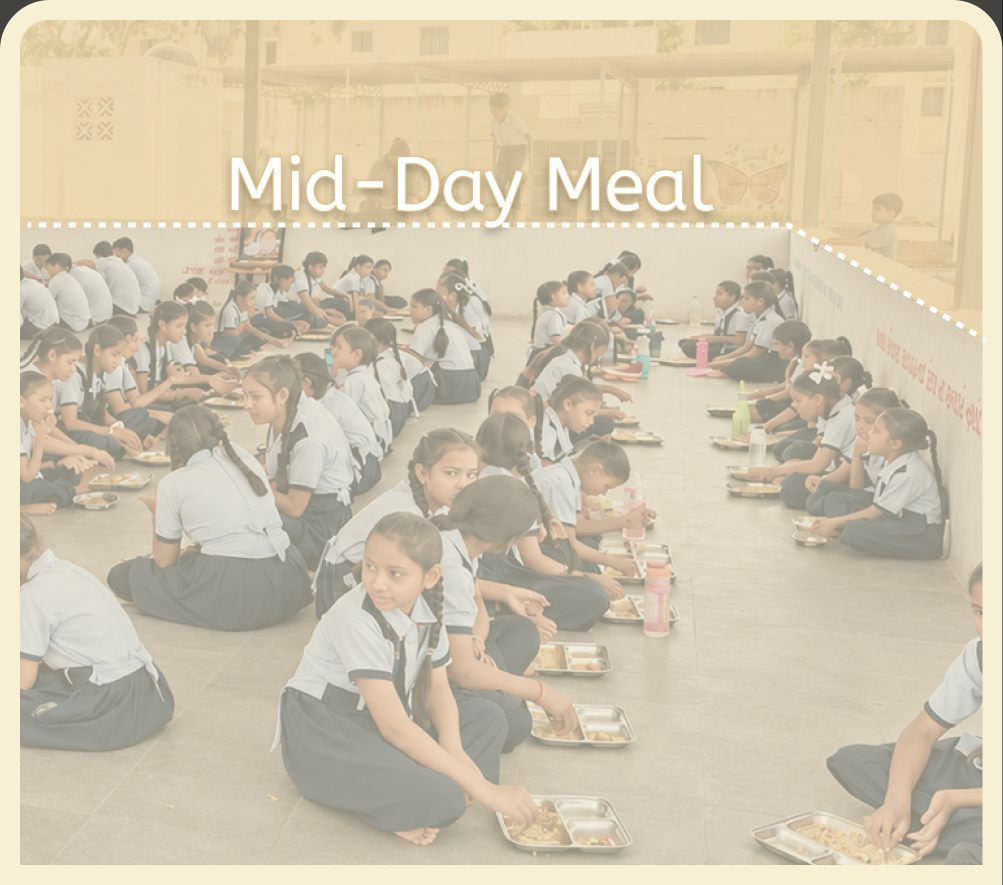
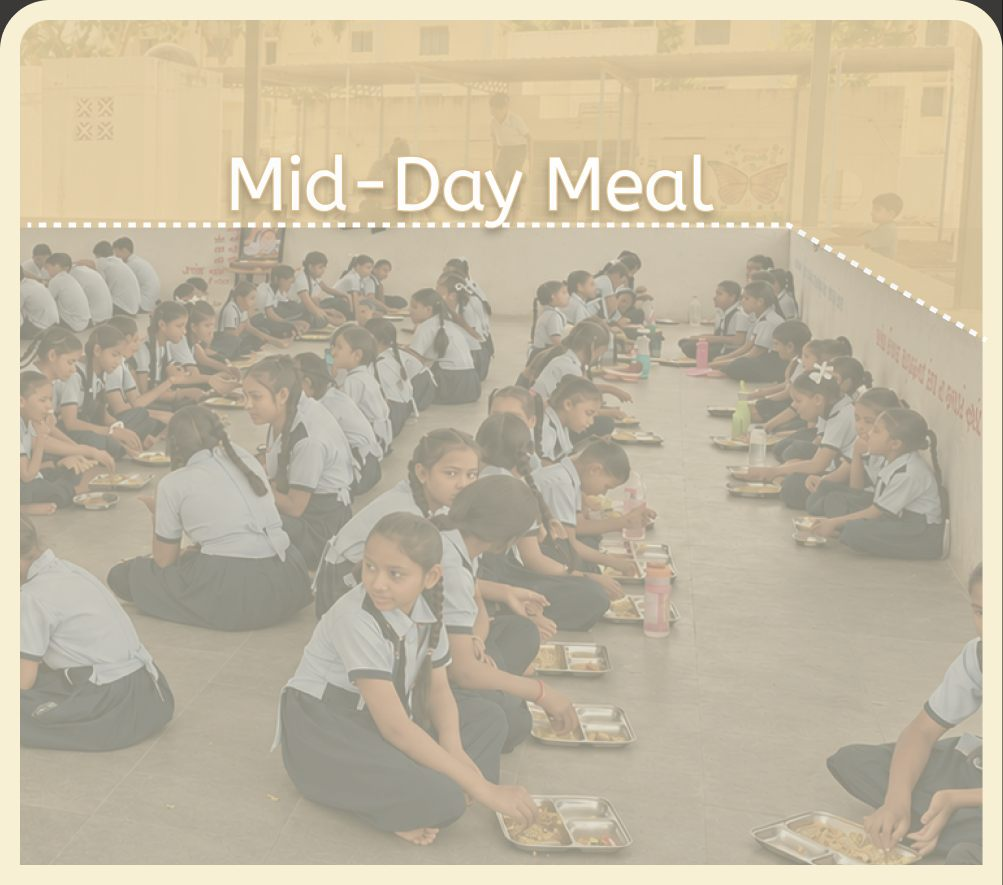
Add Design Audit card, smoother hover reveal, faster Journey lines, first-scroll landing
- All Projects: Organization Audit becomes Design Audit, with its front and back
- Project cards: the back rises over the front instead of turning over
- Behavior Design front: photo 13% darker
- Journey: the vertical lines start at 30% of the old wait
- First scroll onto About me, Featured Projects, Journey and Contact lands on the page

Changed region(s): [[0.0, 0.2441, 0.989, 0.9763], [0.0, 0.8542, 0.3091, 0.9763], [0.4018, 0.9153, 0.4327, 0.9763]]

diff --git a/index.html b/index.html
@@ -244,16 +244,26 @@
   .work:hover .work-box, .work:focus-visible .work-box { filter: brightness(.88); }
   .work.soon { cursor: default; }
   /* a card with a thumbnail (Figma "Front of …" / "Back of …", 401 × 354): pointing
-     at the box or its name turns it over to the back, leaving turns it front again */
-  .work.flip .work-box { background: none; filter: none; perspective: calc(1400 * var(--u)); container-type: inline-size; }
-  .flip-in { position: absolute; inset: 0; transform-style: preserve-3d; transition: transform .7s cubic-bezier(.2, .7, .2, 1); }
-  .work.flip:hover .flip-in, .work.flip:focus-visible .flip-in { transform: rotateY(180deg); }
-  .face { position: absolute; inset: 0; backface-visibility: hidden; -webkit-backface-visibility: hidden; --k: calc(100cqw / 401); }
-  .face img { display: block; width: 100%; height: 100%; object-fit: cover; }
+     at the box or its name, the back rises over the front like a veil, the front
+     easing back behind it, then the heading, text and tags settle in one after
+     another; leaving, the text goes first and the veil sinks back down */
+  .work.flip .work-box { background: none; filter: none; overflow: hidden; container-type: inline-size; }
+  .flip-in { position: absolute; inset: 0; }
+  .face { position: absolute; inset: 0; --k: calc(100cqw / 401); }
+  .face img { display: block; width: 100%; height: 100%; object-fit: cover; transition: transform 1.1s cubic-bezier(.2, .7, .2, 1); }
   .face.rear {
-    transform: rotateY(180deg); box-sizing: border-box; border: calc(8 * var(--k)) solid var(--edge, #eeeae4);
+    box-sizing: border-box; border: calc(8 * var(--k)) solid var(--edge, #eeeae4);
     background: var(--wash, linear-gradient(#e4d1bb, #f9f5f1));
+    clip-path: inset(100% 0 0 0); transition: clip-path .55s cubic-bezier(.65, 0, .35, 1) .12s;
   }
+  .face.rear > * { opacity: 0; translate: 0 calc(12 * var(--k)); transition: opacity .2s ease, translate .2s ease; }
+  .work.flip:hover .face:not(.rear) img, .work.flip:focus-visible .face:not(.rear) img { transform: scale(1.06); }
+  .work.flip:hover .face.rear, .work.flip:focus-visible .face.rear { clip-path: inset(0 0 0 0); transition-delay: 0s; }
+  .work.flip:hover .face.rear > *, .work.flip:focus-visible .face.rear > * {
+    opacity: 1; translate: 0 0; transition: opacity .5s ease, translate .6s cubic-bezier(.2, .7, .2, 1); transition-delay: calc(.3s + var(--n, 0) * 80ms);
+  }
+  .face.rear p { --n: 1; }
+  .face.rear ul { --n: 2; }
   .face.rear.behavior { --edge: #f8f0d4; --wash: linear-gradient(#e7d8af, #fffdf2 89.4%); --tg: 11; --tag: #834e17; --rule: #a97861; }
   .face.rear.branding { --edge: #efe7e0; --wash: linear-gradient(rgba(212, 166, 123, .9) 5.8%, rgba(254, 245, 234, .9)) #fff; --lx: 29; --tag: #c99a54; --rule: #c99a54; }
   .face.rear.system { --edge: #e1ebde; --wash: linear-gradient(#bcdeb9, #f6fff5 82.7%); --lx: 29; --tag: #53775c; --rule: #53775c; }
@@ -270,7 +280,8 @@
     font: 400 calc(10 * var(--k))/calc(15 * var(--k)) 'Afacad', sans-serif; color: var(--tag, #7a4a33); white-space: nowrap;
   }
   .face.rear li + li { margin-left: calc(var(--tg, 15) * var(--k)); padding-left: calc(var(--tg, 15) * var(--k)); border-left: 1px solid var(--rule, rgba(122, 74, 51, .55)); }
-  @media (prefers-reduced-motion: reduce) { .flip-in { transition: none; } }
+  .face.rear.audit { --edge: #e3e3e3; --wash: linear-gradient(#abafb9, #f4f5f6); --lx: 29; --tag: #374279; --rule: #374279; }
+  @media (prefers-reduced-motion: reduce) { .face img, .face.rear, .face.rear > * { transition: none !important; } }
 
   /* ---------- Contact (Figma "Opt 20") ---------- */
   /* the text rises in, then the two ends of a rapier come in from the ends of
@@ -686,7 +697,14 @@
               <ul><li>Market research</li><li>Brand strategy</li><li>Packaging design</li></ul>
             </div>
           </div></div><h3 class="work-title">Product Branding</h3></a>
-          <a class="work soon" style="--i:4" href="#all-projects" aria-label="Organization Audit (coming soon)"><div class="work-box"></div><h3 class="work-title">Organization Audit</h3></a>
+          <a class="work soon flip" style="--i:4" href="#all-projects" aria-label="Design Audit: Inside IKC (coming soon)"><div class="work-box"><div class="flip-in">
+            <div class="face"><img src="assets/thumbs/design-audit-front.jpg" alt="" width="401" height="353"></div>
+            <div class="face rear audit" aria-hidden="true">
+              <h4>How ready is a 60-year-old family food brand for its next five years?</h4>
+              <p>IKC Foods has grown on 60 years of trust, but its next chapter depends on how the organisation works every day. This immersive audit followed 11 divisions, from factory floor to store shelf, to see what people do versus say, and shaped it into opportunity areas for a future-ready IKC.</p>
+              <ul><li>Ethnography</li><li>Capability mapping</li><li>Strategic Design</li></ul>
+            </div>
+          </div></div><h3 class="work-title">Design Audit</h3></a>
         </div>
       </div>
     </section>
@@ -1234,21 +1252,33 @@
   const MAX_STEP = 90;                     // px; a mouse wheel's notch, or a sudden flick, counts as no more than this
   const SWIPE_GAP_MS = 120;                // a pause this long, and the next scroll is a new swipe
   let pageAim = 0, page = 0, dir = 1, lastNudge = 0, lastSize = 0, holding = false;
+  const FIRST_LAND = [1, 2, JOURNEY, CONTACT], landedOnce = new Set();
+  let landLock = false;
   // finger px for one step: a view is 1¼ screens; the boxes move as far as the fingers do
   const stepSpan = from => from >= WORKS && from < WORKS + 1 ? Math.max(1, worksShift()) : innerHeight * SCROLL_PER_VIEW;
   function nudge(dy) {                     // dy: px the fingers moved, + further down
     if (!dy) return;
     const now = performance.now(), d = dy > 0 ? 1 : -1, size = Math.abs(dy);
     const fresh = now - lastNudge > SWIPE_GAP_MS || d !== dir || size > lastSize * 1.5 + 2;
+    const newSwipe = now - lastNudge > SWIPE_GAP_MS || d !== dir;
     lastNudge = now; lastSize = size; dir = d;  // dir: 1 on down, −1 back up
+    // after a first landing: nothing moves the page until it has arrived and the
+    // swipe that carried it there has ended (a pause, or the other way)
+    if (landLock) { if (Math.abs(pageAim - page) > .01 || !newSwipe) return; landLock = false; }
     if (holding && !fresh) return;         // the glide after reaching a view: stay on it
     holding = false;
     const before = pageAim;
     const next = d > 0 ? Math.floor(before + .001) + 1 : Math.ceil(before - .001) - 1;   // the view this way
+    // the first time down to About me, Featured Projects, Background or Contact,
+    // any scroll, small or large, carries the page all the way onto it (and its
+    // intro plays); after that the page scrolls as far as the fingers do
+    if (d > 0 && FIRST_LAND.includes(next) && !landedOnce.has(next)) {
+      landedOnce.add(next); pageAim = next; holding = true; landLock = true; return;
+    }
     pageAim = clamp(pageAim + clamp(dy, -MAX_STEP, MAX_STEP) / stepSpan(Math.min(before, next)), 0, LAST);
     if (next >= 0 && next <= LAST && (d > 0 ? pageAim >= next : pageAim <= next)) { pageAim = next; holding = true; }
   }
-  const goTo = p => { dir = p > pageAim ? 1 : -1; pageAim = p; holding = false; };
+  const goTo = p => { dir = p > pageAim ? 1 : -1; pageAim = p; holding = false; landLock = false; if (FIRST_LAND.includes(p)) landedOnce.add(p); };
   const live = () => document.body.classList.contains('done') && !menu.classList.contains('open');
   addEventListener('wheel', e => {
     if (!document.body.classList.contains('done')) return;
@@ -1408,9 +1438,12 @@
     jTools.appendChild(t);
   });
   const J_RISE_END = 180 + (J_ICONS.length - 1) * 45 + 800, J_PAUSE = 200, J_STEP = 420;
+  // the first stop's line starts growing at 30% of the time it used to wait
+  // (it waited for the rise to end, a 0.2 s pause and its own 180 ms)
+  const J_STEM_IN = 180, J_STOPS_AT = Math.round((J_RISE_END + J_PAUSE + J_STEM_IN) * .3) - J_STEM_IN;
   const jStops = [...journey.querySelectorAll('.j-stop')];
-  jStops.forEach((s, i) => s.style.setProperty('--d', (J_RISE_END + J_PAUSE + i * J_STEP) + 'ms'));
-  const J_ALL_MS = J_RISE_END + J_PAUSE + (jStops.length - 1) * J_STEP + 300 + 600;
+  jStops.forEach((s, i) => s.style.setProperty('--d', (J_STOPS_AT + i * J_STEP) + 'ms'));
+  const J_ALL_MS = Math.max(J_RISE_END, J_STOPS_AT + (jStops.length - 1) * J_STEP + 300 + 600);
   let journeyPlayed = false, journeyTimer = 0;
   function playJourney() {
     journeyPlayed = true;
@@ -1608,6 +1641,7 @@
   freshVisit.push(() => { aboutPlayed = false; resetAbout(); });
   freshVisit.push(resetContact);           // Contact plays again
   freshVisit.push(resetJourney);           // and so does Background
+  freshVisit.push(() => landedOnce.clear());   // and the first scroll onto each page carries through again
   freshVisit.push(() => {                  // the projects start again from the first
     projLanded = false; projects.classList.remove('show-note');
     showSlide(0, true);
